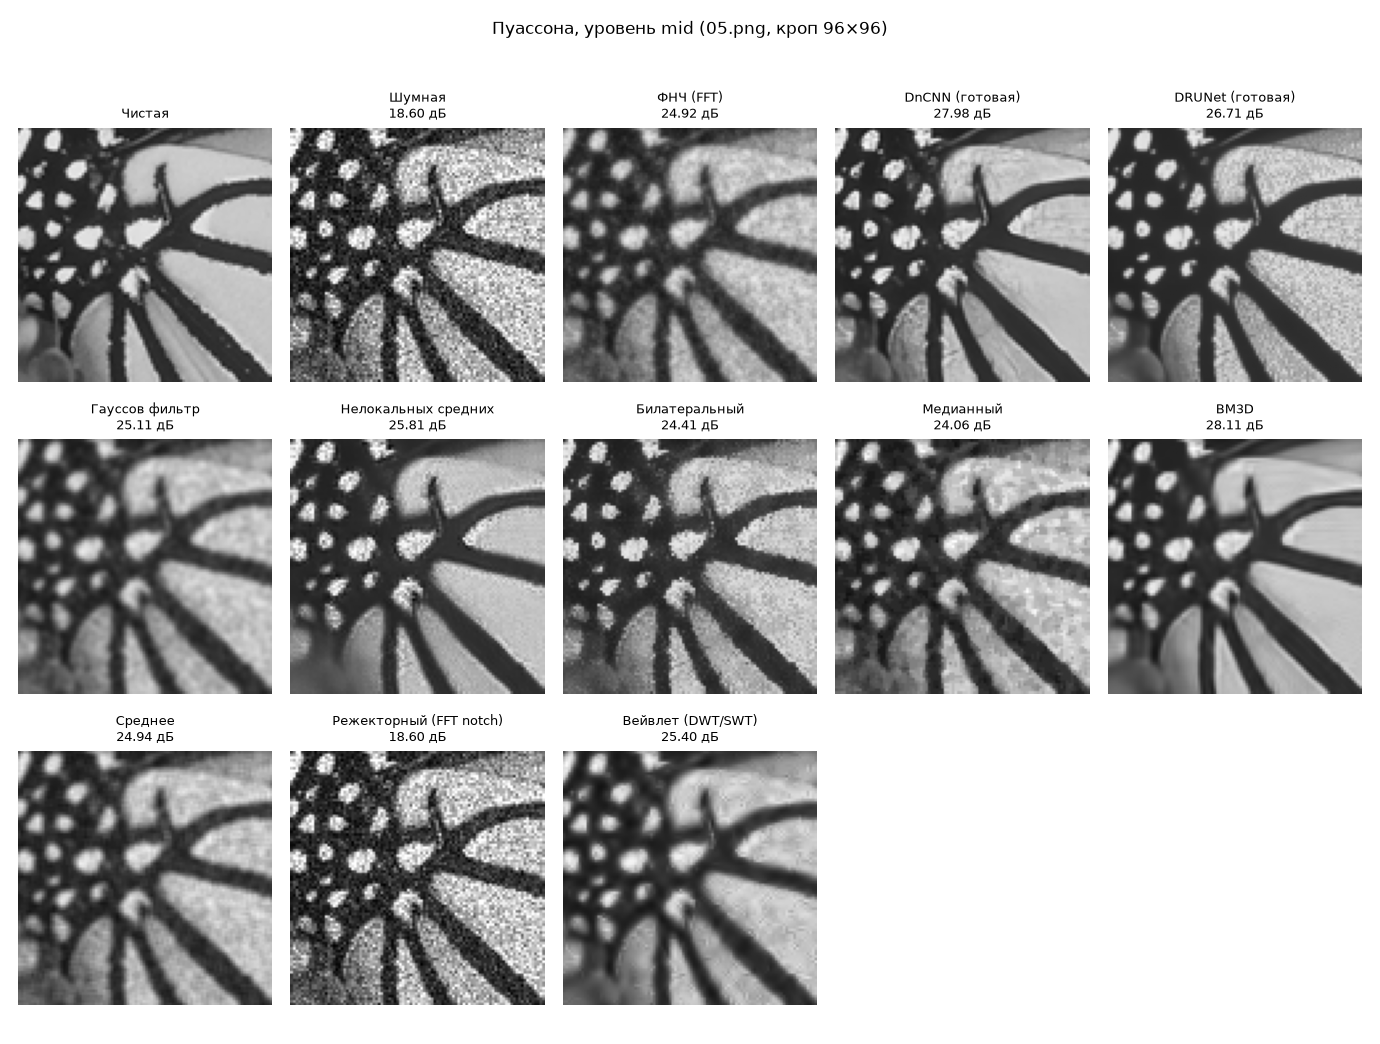
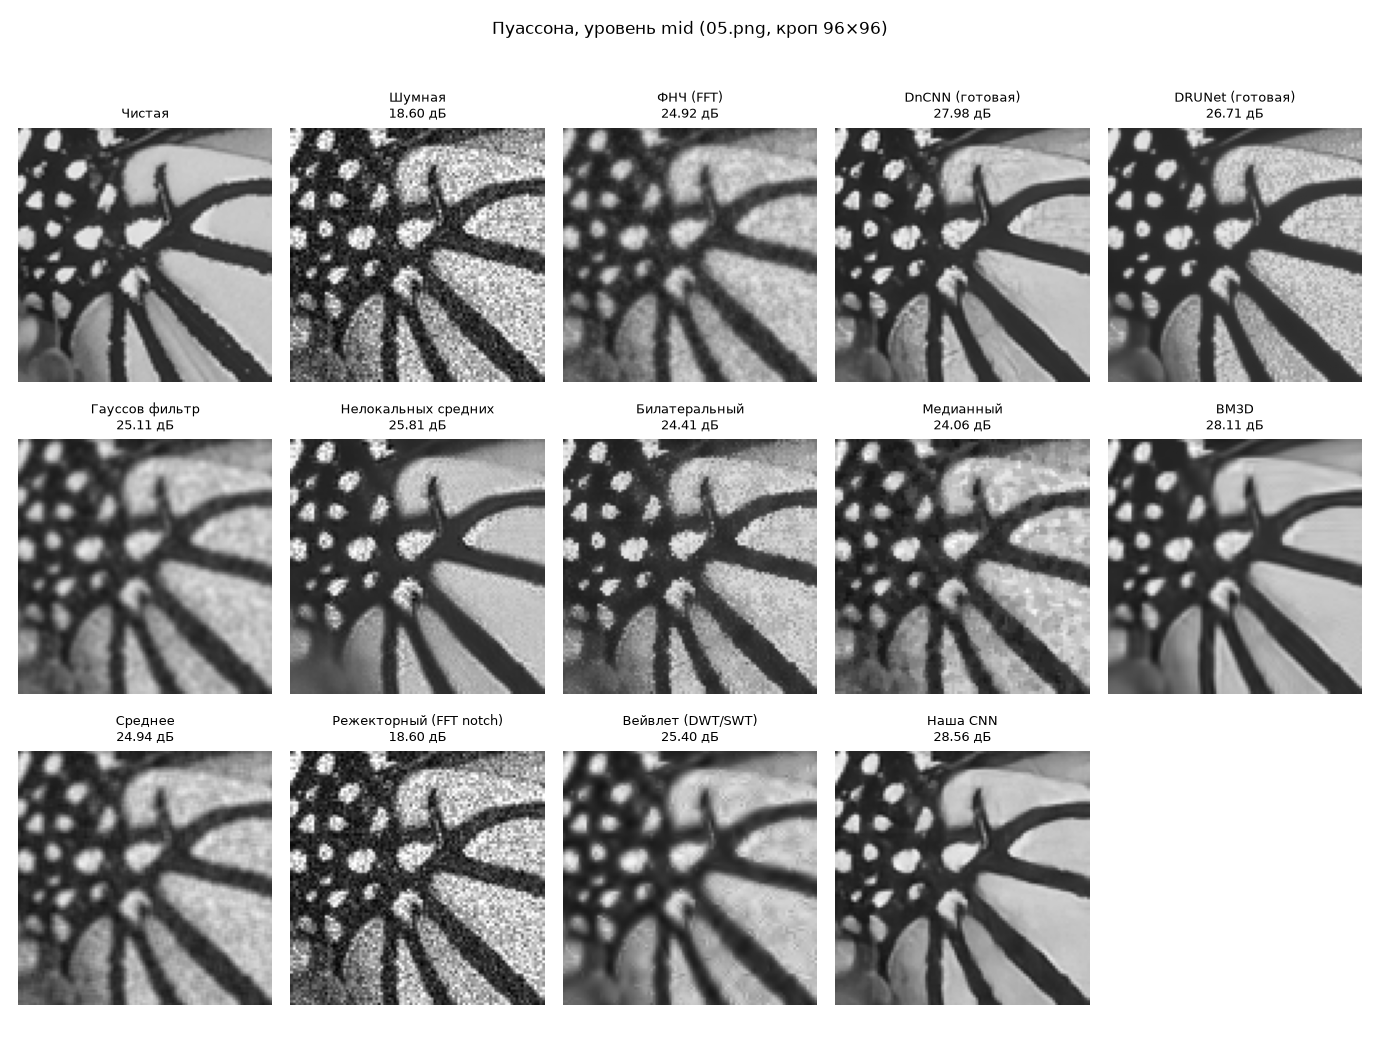
блок 6: своя CNN в бенчмарке, финальный отчёт

Changed region(s): [[0.592, 0.6743, 0.8101, 0.9808]]

diff --git a/results/summary_psnr.md b/results/summary_psnr.md
@@ -2,13 +2,14 @@
 |---|---|---|---|---|---|---|---|---|---|---|---|---|---|---|---|
 | *Шумная* | *24.67* | *20.34* | *14.79* | *18.22* | *15.21* | *12.23* | *25.45* | *19.68* | *16.46* | *23.16* | *18.18* | *13.96* | *23.06* | *17.17* | *13.88* |
 | Билатеральный | 29.48 | 26.77 | 19.52 | 19.57 | 16.48 | 13.23 | 29.60 | 25.24 | 21.18 | 28.86 | 24.25 | 17.78 | 25.29 | 20.06 | 15.80 |
-| BM3D | 32.12 | 29.64 | 25.99 | 26.46 | 25.51 | 22.35 | 31.88 | 27.46 | **25.07** | 29.66 | **28.20** | **25.17** | 23.77 | 17.15 | 13.88 |
+| BM3D | 32.12 | 29.64 | 25.99 | 26.46 | 25.51 | 22.35 | 31.88 | 27.46 | 25.07 | 29.66 | **28.20** | 25.17 | 23.77 | 17.15 | 13.88 |
 | Гауссов фильтр | 27.85 | 26.10 | 23.36 | 25.04 | 23.14 | 21.26 | 28.52 | 25.80 | 24.17 | 26.53 | 25.24 | 22.94 | 23.20 | 21.58 | 20.90 |
 | Среднее | 27.00 | 25.65 | 22.79 | 24.49 | 22.64 | 20.69 | 27.16 | 25.32 | 23.47 | 26.63 | 24.63 | 22.39 | 22.60 | 20.59 | 18.84 |
-| Медианный | 27.61 | 25.32 | 22.42 | **29.63** | **28.65** | **26.01** | 27.94 | 24.82 | 23.21 | 26.90 | 23.69 | 21.21 | 22.71 | 19.27 | 16.51 |
+| Медианный | 27.61 | 25.32 | 22.42 | 29.63 | 28.65 | 26.01 | 27.94 | 24.82 | 23.21 | 26.90 | 23.69 | 21.21 | 22.71 | 19.27 | 16.51 |
 | Нелокальных средних | 30.08 | 26.88 | 20.17 | 24.96 | 20.47 | 13.24 | 29.91 | 26.13 | 22.19 | 28.05 | 26.03 | 16.27 | 24.88 | 18.51 | 14.43 |
 | ФНЧ (FFT) | 28.51 | 26.37 | 23.23 | 24.76 | 23.18 | 21.36 | 28.88 | 25.91 | 24.12 | 27.41 | 24.98 | 22.84 | 23.57 | 22.18 | 21.84 |
 | Режекторный (FFT notch) | 24.67 | 20.34 | 14.79 | 18.22 | 15.21 | 12.23 | 25.45 | 19.68 | 16.46 | 23.16 | 18.18 | 13.96 | **39.47** | **34.02** | **29.35** |
 | Вейвлет (DWT/SWT) | 29.86 | 26.81 | 23.46 | 24.56 | 22.50 | 19.69 | 29.34 | 25.32 | 24.15 | 28.40 | 25.51 | 22.62 | 24.27 | 20.05 | 16.40 |
-| DnCNN (готовая) | 32.37 | 29.89 | 26.12 | 20.50 | 18.87 | 17.38 | **32.17** | **27.86** | 25.07 | **31.20** | 27.89 | 24.34 | 23.03 | 17.17 | 13.89 |
+| Наша CNN | 31.46 | 29.12 | 25.79 | **41.32** | **39.09** | **35.34** | **32.28** | **29.12** | **27.06** | 30.82 | 28.03 | **25.24** | 23.03 | 17.22 | 13.95 |
+| DnCNN (готовая) | 32.37 | 29.89 | 26.12 | 20.50 | 18.87 | 17.38 | 32.17 | 27.86 | 25.07 | **31.20** | 27.89 | 24.34 | 23.03 | 17.17 | 13.89 |
 | DRUNet (готовая) | **32.86** | **30.45** | **26.68** | 18.48 | 16.37 | 16.58 | 30.09 | 24.62 | 21.50 | 30.35 | 26.40 | 23.40 | 22.99 | 17.14 | 13.86 |

diff --git a/results/summary_ssim.md b/results/summary_ssim.md
@@ -5,10 +5,11 @@
 | BM3D | 0.902 | 0.853 | 0.754 | 0.712 | 0.721 | 0.571 | 0.884 | 0.751 | 0.663 | 0.819 | 0.812 | **0.702** | 0.508 | 0.287 | 0.188 |
 | Гауссов фильтр | 0.709 | 0.722 | 0.608 | 0.675 | 0.617 | 0.512 | 0.759 | 0.713 | 0.624 | 0.669 | 0.667 | 0.594 | 0.526 | 0.513 | 0.430 |
 | Среднее | 0.781 | 0.677 | 0.561 | 0.629 | 0.571 | 0.502 | 0.794 | 0.674 | 0.579 | 0.752 | 0.619 | 0.545 | 0.480 | 0.346 | 0.248 |
-| Медианный | 0.751 | 0.621 | 0.540 | **0.895** | **0.886** | **0.841** | 0.774 | 0.630 | 0.580 | 0.716 | 0.552 | 0.447 | 0.479 | 0.266 | 0.172 |
+| Медианный | 0.751 | 0.621 | 0.540 | 0.895 | 0.886 | 0.841 | 0.774 | 0.630 | 0.580 | 0.716 | 0.552 | 0.447 | 0.479 | 0.266 | 0.172 |
 | Нелокальных средних | 0.857 | 0.778 | 0.433 | 0.704 | 0.518 | 0.183 | 0.842 | 0.733 | 0.560 | 0.801 | 0.724 | 0.343 | 0.549 | 0.265 | 0.156 |
 | ФНЧ (FFT) | 0.752 | 0.681 | 0.601 | 0.684 | 0.579 | 0.540 | 0.772 | 0.683 | 0.635 | 0.712 | 0.625 | 0.585 | 0.538 | 0.597 | 0.570 |
 | Режекторный (FFT notch) | 0.581 | 0.414 | 0.227 | 0.431 | 0.269 | 0.157 | 0.661 | 0.464 | 0.346 | 0.547 | 0.359 | 0.217 | **0.975** | **0.945** | **0.885** |
 | Вейвлет (DWT/SWT) | 0.836 | 0.706 | 0.604 | 0.659 | 0.548 | 0.371 | 0.793 | 0.662 | 0.629 | 0.766 | 0.669 | 0.539 | 0.548 | 0.329 | 0.200 |
-| DnCNN (готовая) | 0.906 | 0.860 | 0.756 | 0.511 | 0.438 | 0.384 | **0.908** | **0.829** | **0.750** | **0.890** | **0.817** | 0.700 | 0.527 | 0.301 | 0.196 |
+| Наша CNN | 0.886 | 0.834 | 0.721 | **0.990** | **0.985** | **0.965** | 0.903 | **0.838** | **0.775** | 0.875 | 0.801 | 0.699 | 0.521 | 0.298 | 0.193 |
+| DnCNN (готовая) | 0.906 | 0.860 | 0.756 | 0.511 | 0.438 | 0.384 | **0.908** | 0.829 | 0.750 | **0.890** | **0.817** | 0.700 | 0.527 | 0.301 | 0.196 |
 | DRUNet (готовая) | **0.913** | **0.873** | **0.768** | 0.426 | 0.297 | 0.265 | 0.821 | 0.665 | 0.571 | 0.830 | 0.703 | 0.604 | 0.510 | 0.295 | 0.193 |

diff --git a/CLAUDE.md b/CLAUDE.md
@@ -26,7 +26,7 @@
 - [x] Блок 3 — нейросети: DnCNN/DRUNet (готовые веса), своя CNN, скрипт обучения, Colab-ноутбук (drunet: параметры auto_sigma + sigma; torch ставится отдельно, CPU-сборкой; план — docs/plans/03-block3-neural.md)
 - [x] Блок 4 — бенчмарк: tune / run / report (quick-результаты в results/ не коммитим, итоговые — после полного прогона; план — docs/plans/04-block4-bench.md)
 - [x] Блок 5 — GUI (offscreen-проверка пройдена; ждёт ручной проверки пользователем; план — docs/plans/05-block5-gui.md)
-- [ ] Блок 6 — интеграция обученной CNN, финальный прогон и отчёт
+- [x] Блок 6 — интеграция обученной CNN, финальный прогон и отчёт (train_log.csv и train_curve.png лежат сразу в results/)
 - [ ] Блок 7 — документация: README, материалы для записки и презентации
 
 ---

diff --git a/results/best_by_noise.md b/results/best_by_noise.md
@@ -1,7 +1,7 @@
 | Шум | Лучший метод | PSNR, дБ | Лучший быстрый (< 0.05 с) | PSNR, дБ | Время, с |
 |---|---|---|---|---|---|
 | Гауссов | DRUNet (готовая) | 30.00 | Вейвлет (DWT/SWT) | 26.71 | 0.0134 |
-| Соль и перец | Медианный | 28.10 | Медианный | 28.10 | 0.0001 |
-| Спекл | DnCNN (готовая) | 28.37 | ФНЧ (FFT) | 26.30 | 0.0018 |
-| Пуассона | DnCNN (готовая) | 27.81 | Вейвлет (DWT/SWT) | 25.51 | 0.0133 |
+| Соль и перец | Наша CNN | 38.58 | Медианный | 28.10 | 0.0001 |
+| Спекл | Наша CNN | 29.49 | ФНЧ (FFT) | 26.30 | 0.0018 |
+| Пуассона | Наша CNN | 28.03 | Вейвлет (DWT/SWT) | 25.51 | 0.0133 |
 | Периодический | Режекторный (FFT notch) | 34.28 | Режекторный (FFT notch) | 34.28 | 0.0050 |
